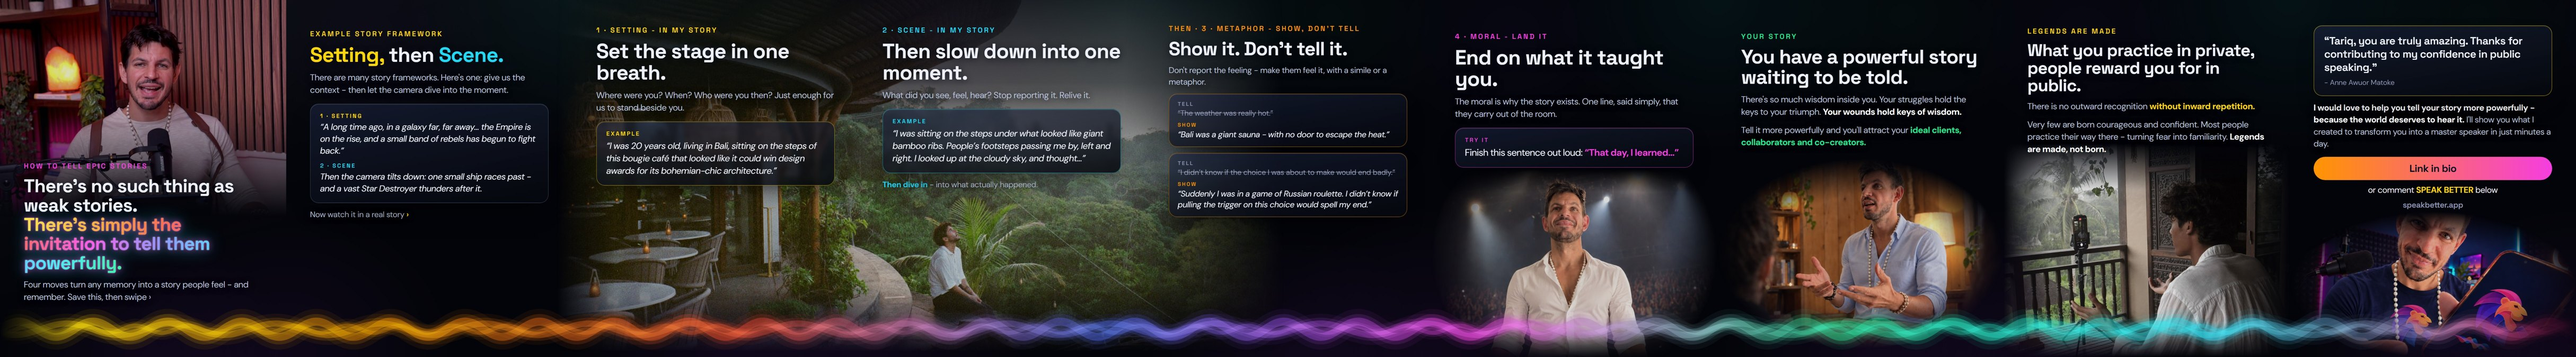
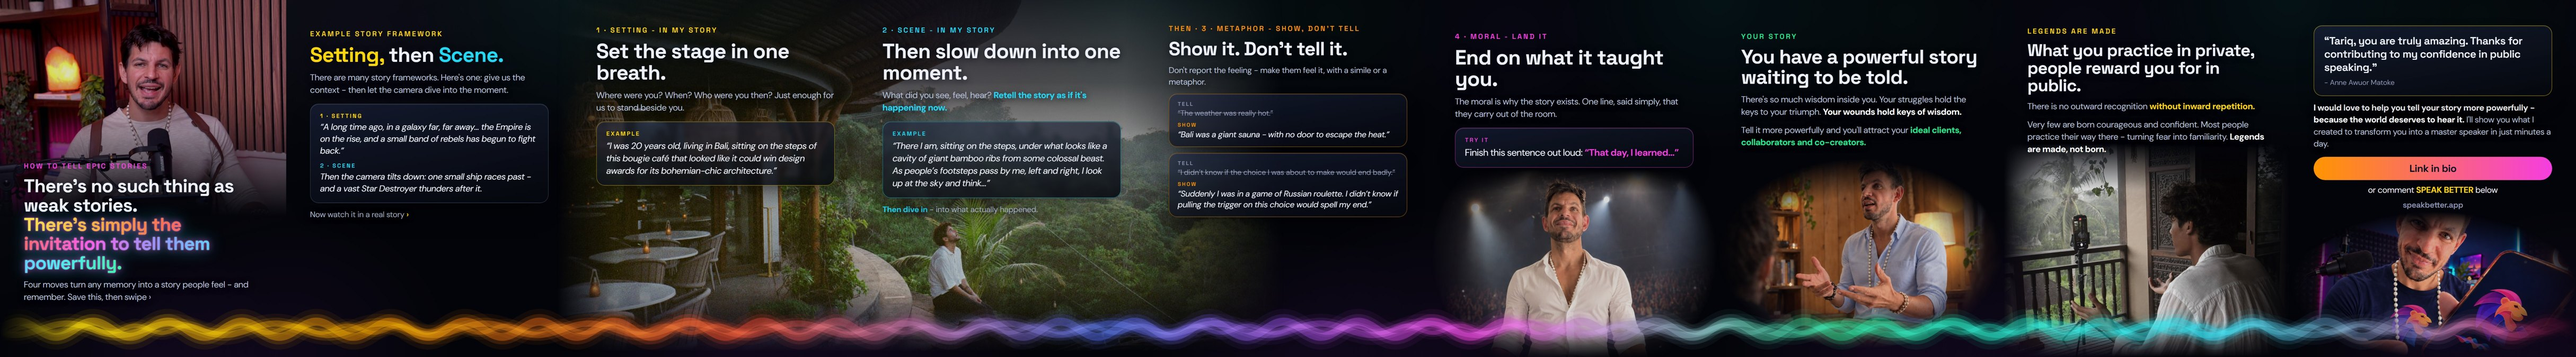
Phone deck viewer: Post 4 black - slide 4 told in the present tense

Changed region(s): [[0.3418, 0.2489, 0.435, 0.6222]]

diff --git a/public/d-BlBAiR0ZRDrG/post4-black.html b/public/d-BlBAiR0ZRDrG/post4-black.html
@@ -5,7 +5,7 @@ main{max-width:540px;margin:0 auto;padding:16px 16px 48px}h1{font-size:18px;marg
 .dots{display:flex;justify-content:center;gap:6px;margin:10px 0 18px}.dots i{width:6px;height:6px;border-radius:50%;background:#36406a}.dots i.on{background:#22D9F5}
 .pano{overflow-x:auto;border-radius:8px}.pano img{height:260px;display:block}h2{font-size:14px;margin:22px 0 8px;color:#B9C0D8}</style></head><body><main>
 <a href="index.html">‹ All</a><h1>Post 4 · How to Tell Epic Stories - black</h1><small>9 slides · swipe like Instagram</small><small style="display:block;margin:6px 0">Version: <a href="post4.html">Glassy gradient</a> · <a href="post4-black.html">Black</a></small>
-<div class="car" id="c"><img src="post4-black/01.jpg?v=11" alt="Slide 1"><img src="post4-black/02.jpg?v=11" alt="Slide 2"><img src="post4-black/03.jpg?v=11" alt="Slide 3"><img src="post4-black/04.jpg?v=11" alt="Slide 4"><img src="post4-black/05.jpg?v=11" alt="Slide 5"><img src="post4-black/06.jpg?v=11" alt="Slide 6"><img src="post4-black/07.jpg?v=11" alt="Slide 7"><img src="post4-black/08.jpg?v=11" alt="Slide 8"><img src="post4-black/09.jpg?v=11" alt="Slide 9"></div><div class="dots" id="d"><i></i><i></i><i></i><i></i><i></i><i></i><i></i><i></i><i></i></div>
-<h2>The whole panorama (scroll sideways)</h2><div class="pano"><img src="post4-black/panorama.jpg?v=11" alt="Full panorama"></div>
+<div class="car" id="c"><img src="post4-black/01.jpg?v=12" alt="Slide 1"><img src="post4-black/02.jpg?v=12" alt="Slide 2"><img src="post4-black/03.jpg?v=12" alt="Slide 3"><img src="post4-black/04.jpg?v=12" alt="Slide 4"><img src="post4-black/05.jpg?v=12" alt="Slide 5"><img src="post4-black/06.jpg?v=12" alt="Slide 6"><img src="post4-black/07.jpg?v=12" alt="Slide 7"><img src="post4-black/08.jpg?v=12" alt="Slide 8"><img src="post4-black/09.jpg?v=12" alt="Slide 9"></div><div class="dots" id="d"><i></i><i></i><i></i><i></i><i></i><i></i><i></i><i></i><i></i></div>
+<h2>The whole panorama (scroll sideways)</h2><div class="pano"><img src="post4-black/panorama.jpg?v=12" alt="Full panorama"></div>
 <small style="display:block;margin-top:18px">Private link - please don't share.</small></main>
 <script>const c=document.getElementById("c"),d=[...document.querySelectorAll("#d i")];const u=()=>{const i=Math.round(c.scrollLeft/c.clientWidth);d.forEach((x,k)=>x.classList.toggle("on",k===i))};c.addEventListener("scroll",u,{passive:true});u();</script></body></html>
